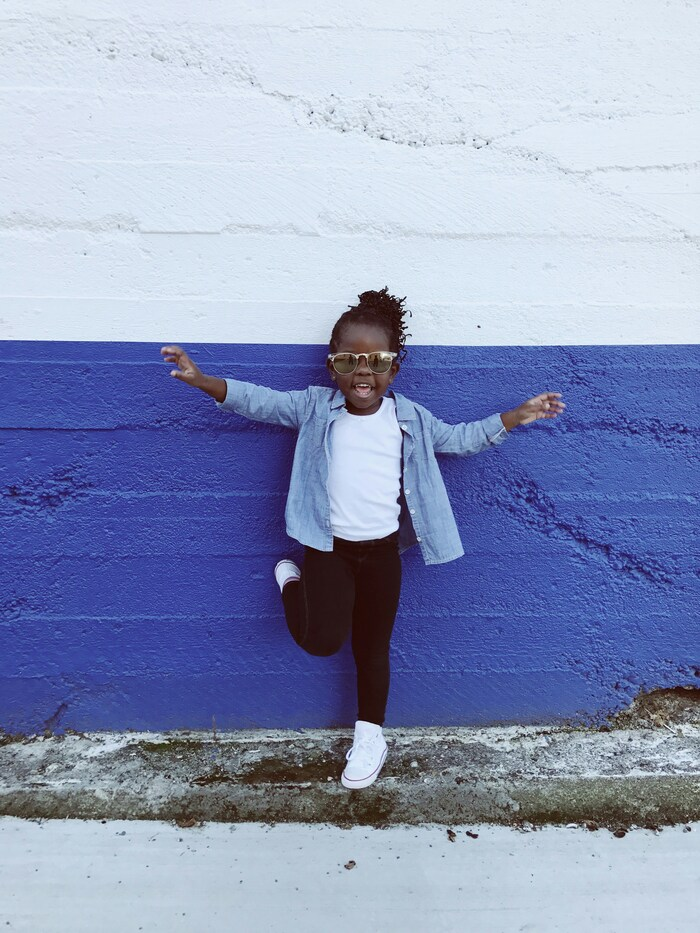
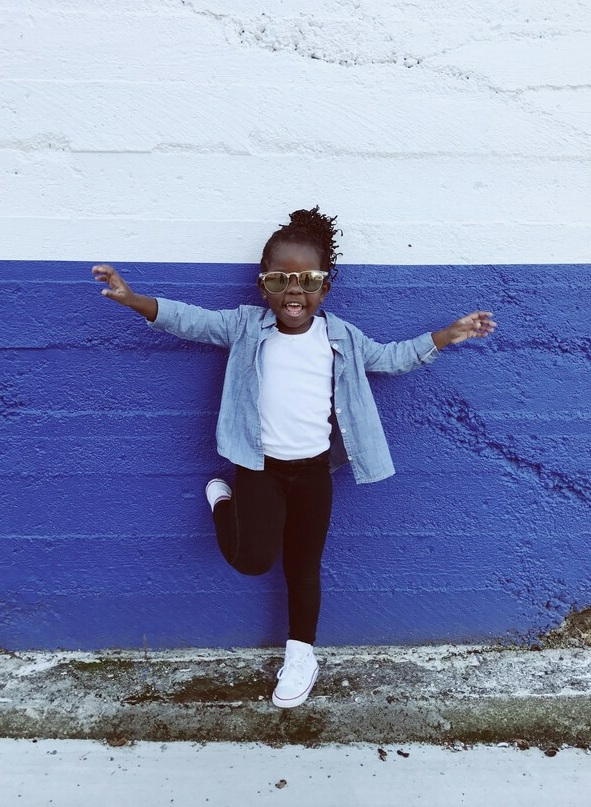
images

diff --git a/src/scss/_page.scss b/src/scss/_page.scss
@@ -101,6 +101,8 @@
 
 .product-img {
   border-radius: 0;
+  height: rem(432px);
+  object-fit: cover;
 }
 
 .product-list {
